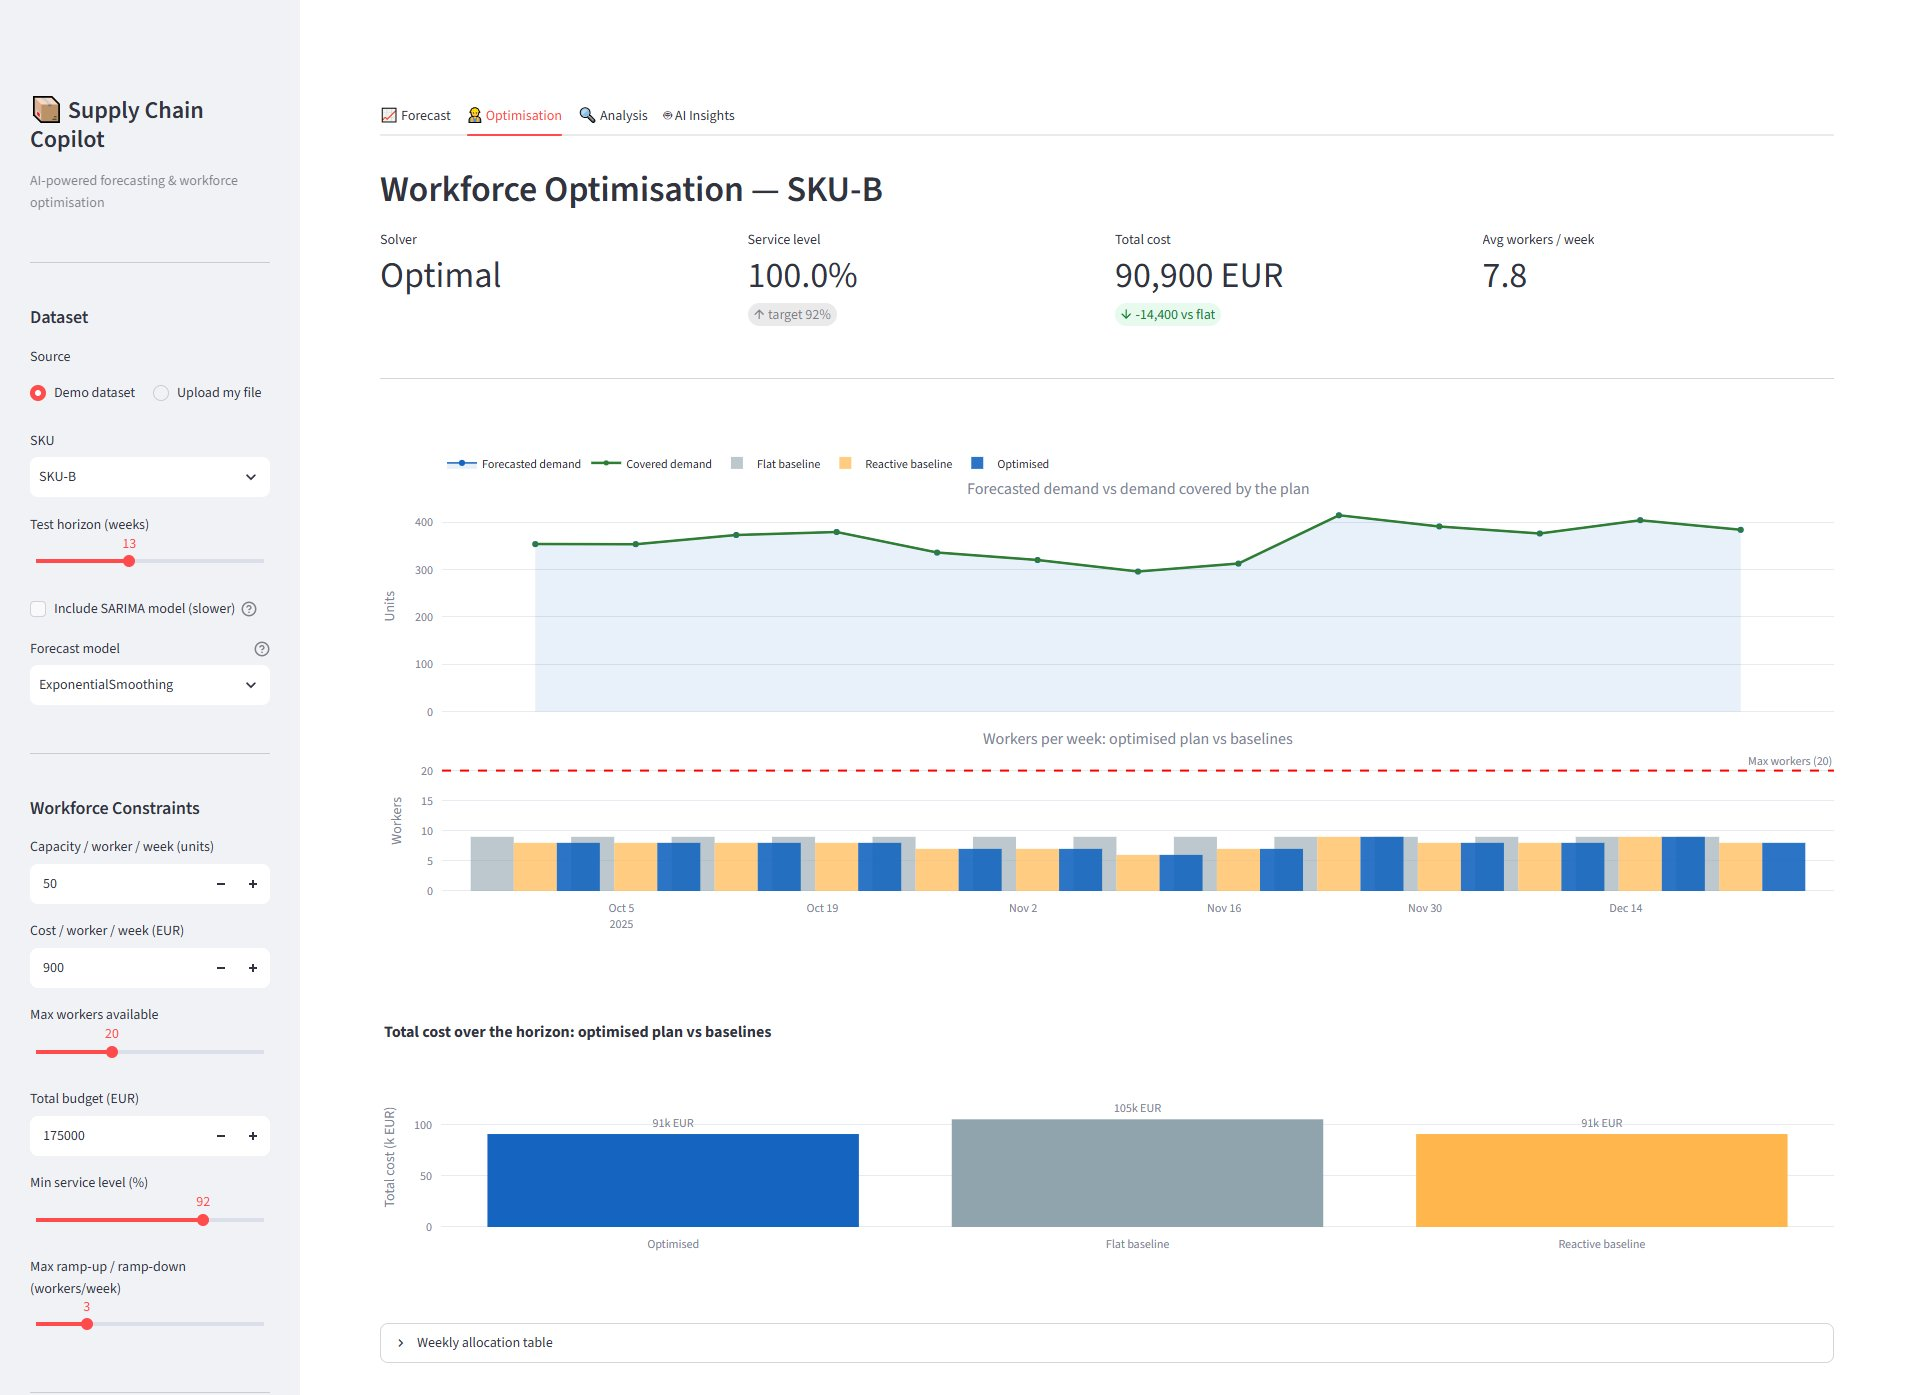
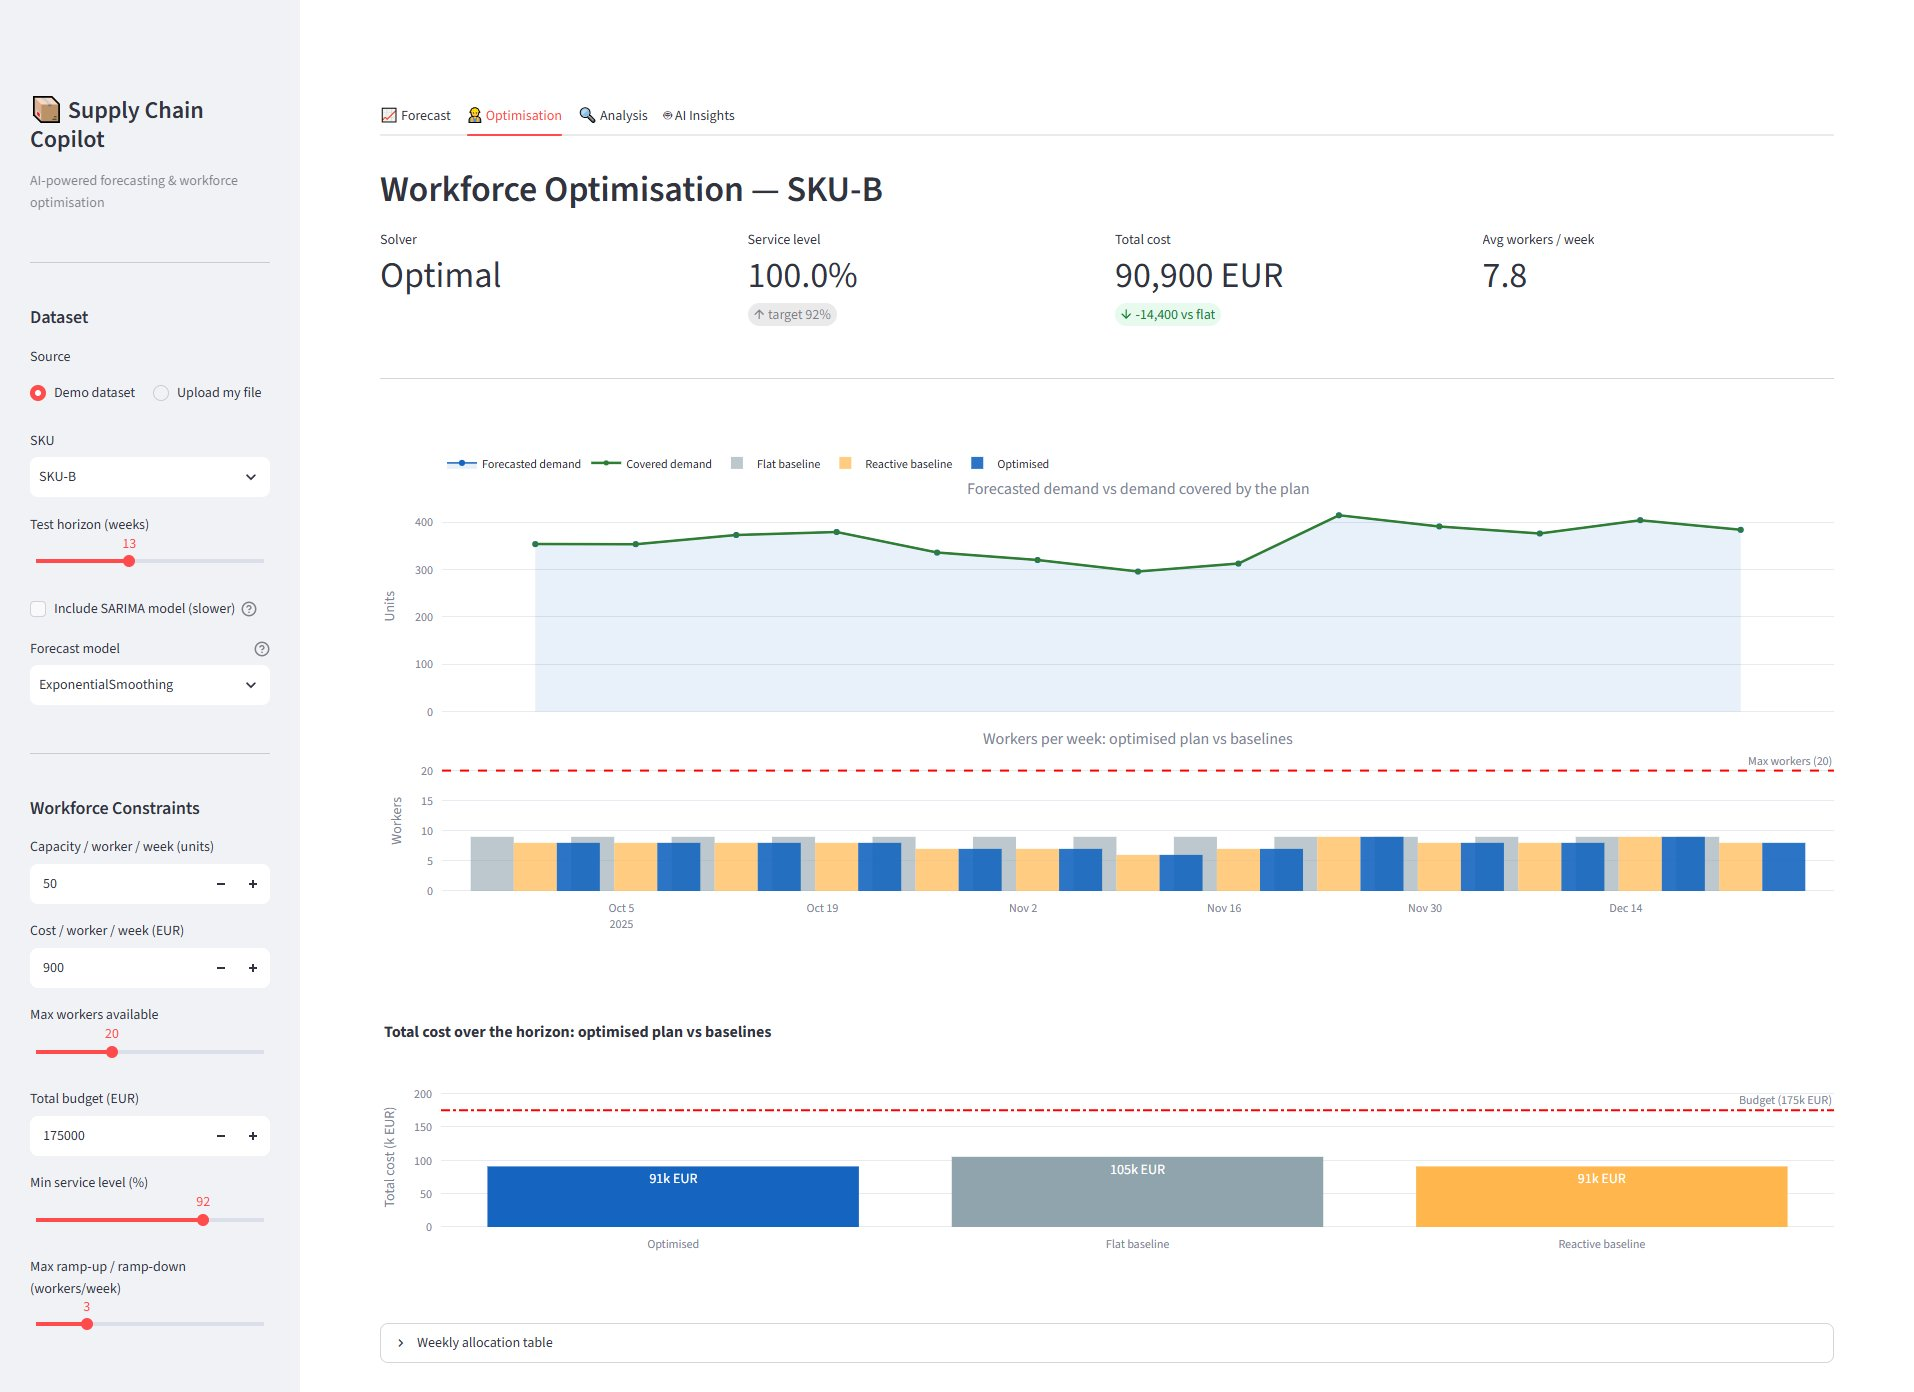
Fix the budget line and the sensitivity chart axes
The cost chart's y-range stopped at the highest cost, so the budget line was
drawn outside it; the range now includes the budget, and cost labels sit
inside the bars so they no longer overlap that line.

The sensitivity charts' service-level axis was synced to the cost grid and
showed meaningless ticks (5.5, 33, 60.5...), which flattened real drops. It
now zooms on the relevant band with 5 or 10 point ticks, the cost axis starts
at zero, and the target line is labelled on the correct axis.

Screenshots updated accordingly.

diff --git a/dashboard.py b/dashboard.py
@@ -490,14 +490,15 @@ with tab2:
         x=cost_labels, y=[v / 1000 for v in cost_values],
         marker_color=["#1565c0", "#90a4ae", "#ffb74d"],
         text=[f"{v/1000:.0f}k EUR" for v in cost_values],
-        textposition="outside",
+        textposition="inside", insidetextanchor="end", textfont=dict(color="white", size=14),
     ))
     fig3.add_hline(y=budget / 1000, line_dash="dashdot", line_color="red",
                    annotation_text=f"Budget ({budget/1000:.0f}k EUR)")
     fig3.update_layout(
         title="Total cost over the horizon: optimised plan vs baselines",
         height=320, yaxis_title="Total cost (k EUR)",
-        showlegend=False, yaxis=dict(range=[0, max(cost_values) / 1000 * 1.3]),
+        # Include the budget in the range, otherwise its line falls outside the chart
+        showlegend=False, yaxis=dict(range=[0, max(max(cost_values), budget) / 1000 * 1.2]),
     )
     st.plotly_chart(fig3, use_container_width=True)
 
@@ -601,8 +602,11 @@ with tab3:
             name="Service level (%)", line=dict(color="#e53935", width=2, dash="dash"),
             mode="lines+markers",
         ), secondary_y=True)
-        fig_s.add_hline(y=min_sl * 100, line_dash="dot", line_color="#e53935",
-                        secondary_y=True)
+        fig_s.add_hline(y=min_sl * 100, line_dash="dot", line_color="#e53935", secondary_y=True)
+        # Placed by hand: add_hline's own annotation uses the cost axis, not the secondary one
+        fig_s.add_annotation(x=0, xref="paper", y=min_sl * 100, yref="y2",
+                             text=f"target {min_sl:.0%}", showarrow=False,
+                             xanchor="left", yanchor="bottom", font=dict(color="#e53935", size=11))
         infeasible = tdf[~tdf["feasible"]]
         if not infeasible.empty:
             for _, row in infeasible.iterrows():
@@ -616,9 +620,17 @@ with tab3:
             ),
             margin=dict(l=10, r=10, t=40, b=10),
         )
-        fig_s.update_yaxes(title_text="kEUR", secondary_y=False, title_font_color="#1565c0")
-        fig_s.update_yaxes(title_text="SL %", secondary_y=True, title_font_color="#e53935",
-                           range=[0, 110])
+        # Cost starts at zero so small cost moves are not exaggerated. The service-level axis
+        # is zoomed on the band that matters (lowest value / target up to 100%) with explicit
+        # ticks: left on auto, it was synced to the cost grid and got unreadable ticks.
+        sl_pct = tdf["service_level"] * 100
+        sl_low = max(0, int(min(sl_pct.min(), min_sl * 100) - 5) // 5 * 5)
+        sl_step = 5 if 100 - sl_low <= 30 else 10
+        fig_s.update_yaxes(title_text="Cost (kEUR)", secondary_y=False, title_font_color="#1565c0",
+                           range=[0, tdf["total_cost"].max() / 1000 * 1.15])
+        fig_s.update_yaxes(title_text="Service level", secondary_y=True, title_font_color="#e53935",
+                           range=[sl_low, 102], tickmode="linear", tick0=sl_low, dtick=sl_step,
+                           ticksuffix="%", showgrid=False)
         col.plotly_chart(fig_s, use_container_width=True)
 
     with st.expander("Raw sensitivity tables"):
